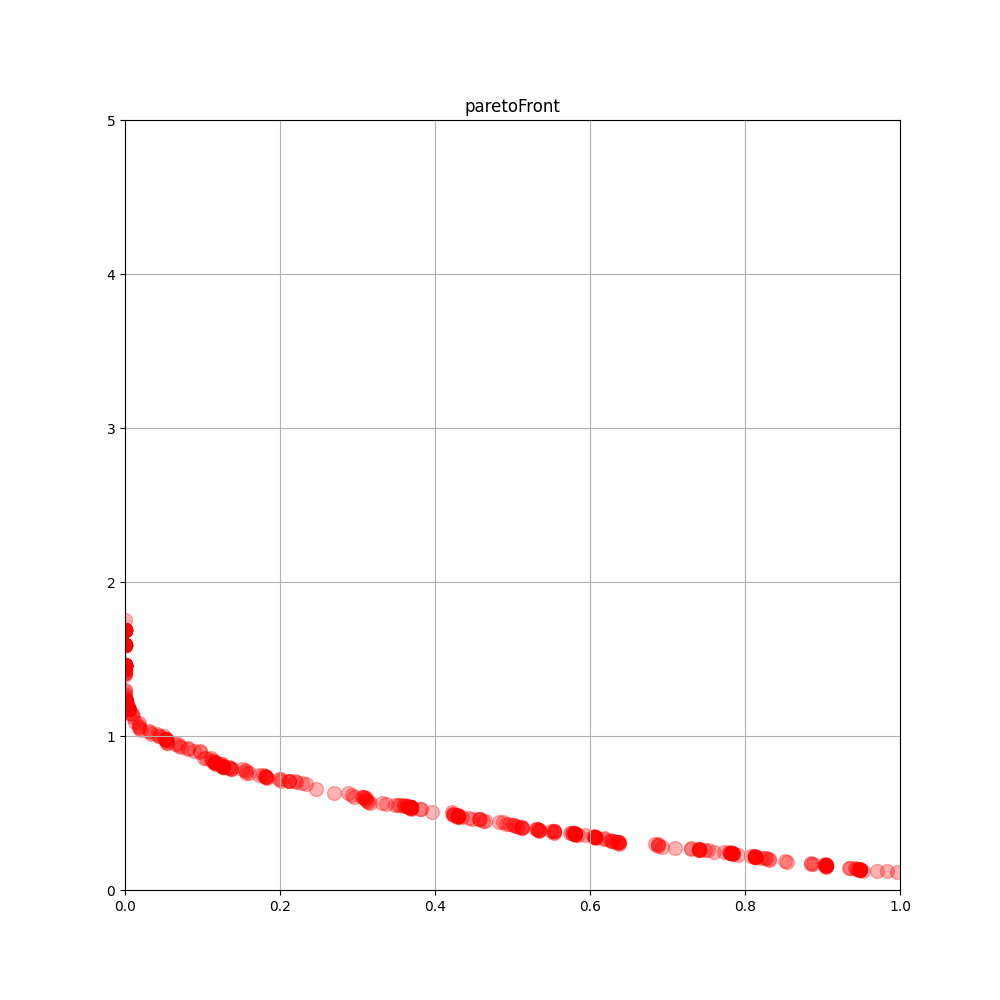
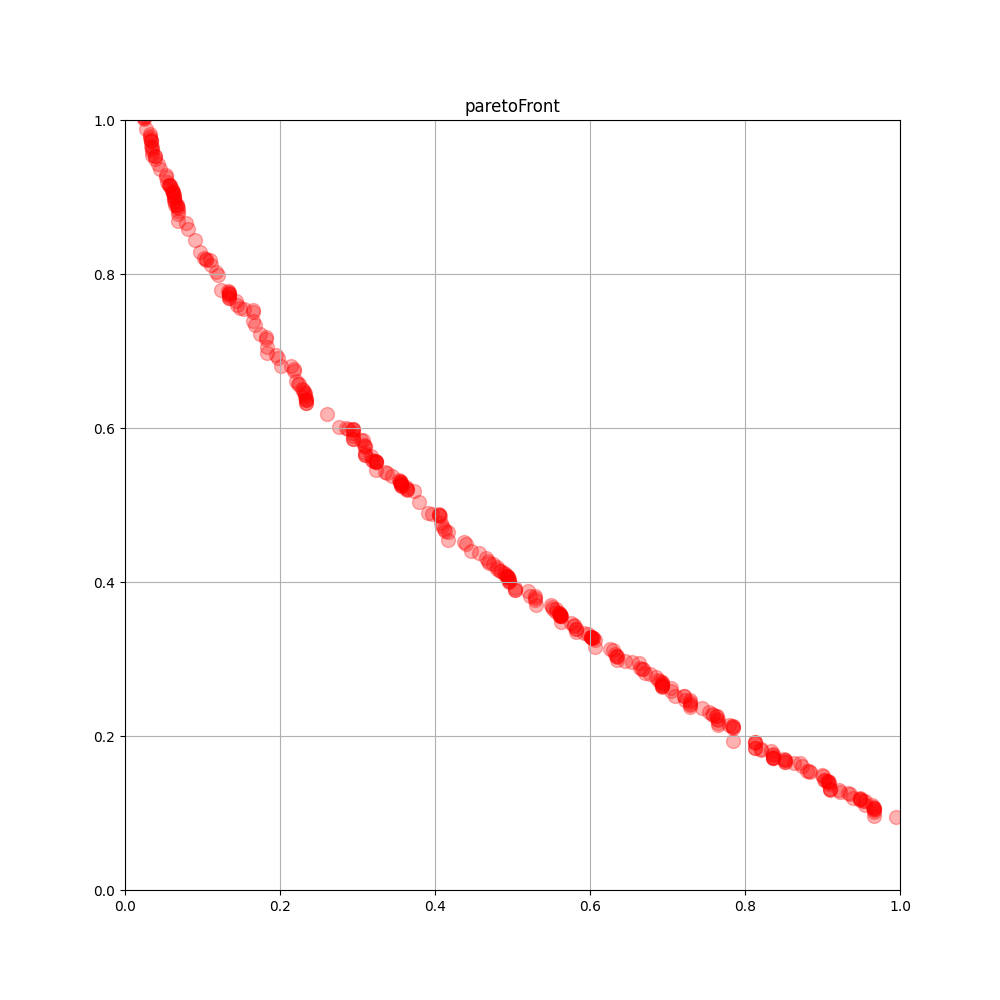
Better readme 3

diff --git a/visualize.py b/visualize.py
@@ -9,7 +9,7 @@ title = "paretoFront"
 
 inputDir = "results/paretoFront5.txt"
 
-lims = [[0,1],[0,5]]
+lims = [[0,1],[0,1]]
 
 paretoFront= pd.read_csv(inputDir, names=["X","Y"], sep="\t")
 

diff --git a/README.md b/README.md
@@ -4,9 +4,9 @@ Algorytm został wymyślony przeze mnie, porzucony z powodu długiego czasu dzia
 
 ## Działanie algorytmu
 
-Algorytm powstał na bazie inspiracji migracją antylopy gnu na sawannie. Stada tej antylopy wraz z zebrami oraz gazellami podróżują każdego roku w celu poszukiwania jedzenia. Podczas tej wędrówki wiele osobników ginie z powodu rwących rzek bądź ataków drapieżników.\
+Algorytm powstał na bazie inspiracji migracją antylopy gnu na sawannie. Stada tej antylopy wraz z zebrami oraz gazellami podróżują każdego roku w celu poszukiwania jedzenia. Podczas tej wędrówki wiele osobników ginie z powodu rwących rzek bądź ataków drapieżników.
 
-Na początku należy zdefiniować funkcje np. w postaci lambda funkcji, które mają być minimalizowane oraz ograniczenia w postacji w takiej samej postaci, które będą sprawdzane, czy są nie większe niż zero np.:
+Na początku należy zdefiniować funkcje np. w postaci lambda funkcji, które mają być minimalizowane oraz ograniczenia w takiej samej postaci, które będą sprawdzane, czy są nie większe niż zero np.:
 ```
 f1 = lambda x: x[0]**2-x[1]
 f2 = lambda x: -0.5*x[0]-x[1]-1
@@ -57,13 +57,15 @@ Konieczne sprawdź czy wartości x1, x2, ..., mieszczą się w ograniczeniach i 
 - Porusz każde zwierze w przestrzeni x1, x2, ... zgodnie z zasadami dla danego gatunku\
 Przyjęte przeze mnie rodzaje ruchów to:\
 \
-Antylopy gnu poruszają się na lokalizację wyliczoną w następujący sposób: $x_i = N( \frac{obecnaPozycja_i + celStada_i}{2}, |obecnaPozycja_i-celStada_i|)$,\ gdzie $N$ to wartość z rozkładu normalnego\
+Antylopy gnu poruszają się na lokalizację wyliczoną w następujący sposób: $x_i = N( \frac{obecnaPozycja_i + celStada_i}{2}, |obecnaPozycja_i-celStada_i|)$,\
+gdzie $N$ to wartość z rozkładu normalnego\
 \
-Zebry poruszają się zgodnie ze wzorem $x_i = U( min(obecnaPozycja_i,celStada_i), max(obecnaPozycja_i, celStada_i))$,\ gdzie $U$ to rozkład jednostajny\
+Zebry poruszają się zgodnie ze wzorem $x_i = U( min(obecnaPozycja_i,celStada_i), max(obecnaPozycja_i, celStada_i))$,\
+gdzie $U$ to rozkład jednostajny\
 \
-Gazelle poruszają się zgodnie ze wzorem $x_i = N(celStada_i, epsylon)$\
-\
-Następnie usuń z populacji $X$ losowych zwierząt, gdzie $X$ to liczba drapieżników (predators)
+Gazelle poruszają się zgodnie ze wzorem $x_i = N(celStada_i, epsylon)$
+
+- Następnie usuń z populacji $X$ losowych zwierząt, gdzie $X$ to liczba drapieżników (predators)
 
 ## Tworzenie wizualizacji
 
@@ -72,12 +74,12 @@ Dostarczony przeze mnie program pozwala na tworzenie gifów, wystarczy ustawić 
 record = 1
 ```
 W ten sposób po wykonaniu pracy przez algorytm zostanie utworzony gif, który pozwala śledzić ruch stada (niebieskie kropki), znalezione optymalne rozwiązania (czerwone kropki) oraz cel stada w danej iteracji (zielona kropka).\
-Funkcja ta jest dostępna tylko w przypadku, kiedy optymalizowane są dwie funkcje oraz każda z nich jest funkcją dwóch zmiennych\
-Po lewej stronie znajduje się przestrzeń x,y, po prawej zaś przestrzeń wartości funkcji f1(x,y), f2(x,y)\
-Dodatkowo można użyć skryptu `visualize.py` do stworzenia wykresu efektów końcowych
+Funkcja ta jest dostępna tylko w przypadku, kiedy optymalizowane są dwie funkcje oraz każda z nich jest funkcją dwóch zmiennych.\
+Po lewej stronie znajduje się przestrzeń x,y, po prawej zaś przestrzeń wartości funkcji f1(x,y), f2(x,y).\
+Dodatkowo można użyć skryptu `visualize.py` do stworzenia wykresu efektów końcowych.
 
 ## Wizualizacje
-Poniżej zamieszczam wizualizację wykonanych przeze mnie działań\
+Poniżej zamieszczam wizualizację wykonanych przeze mnie działań.\
 Wykres z czerwonymi kropkami to wizualizacja rezultatów algorytmu sawanna, natomiast z niebieskimi to teoretyczny front pareto.\
 \
 Funkcje Binh and Korn\
